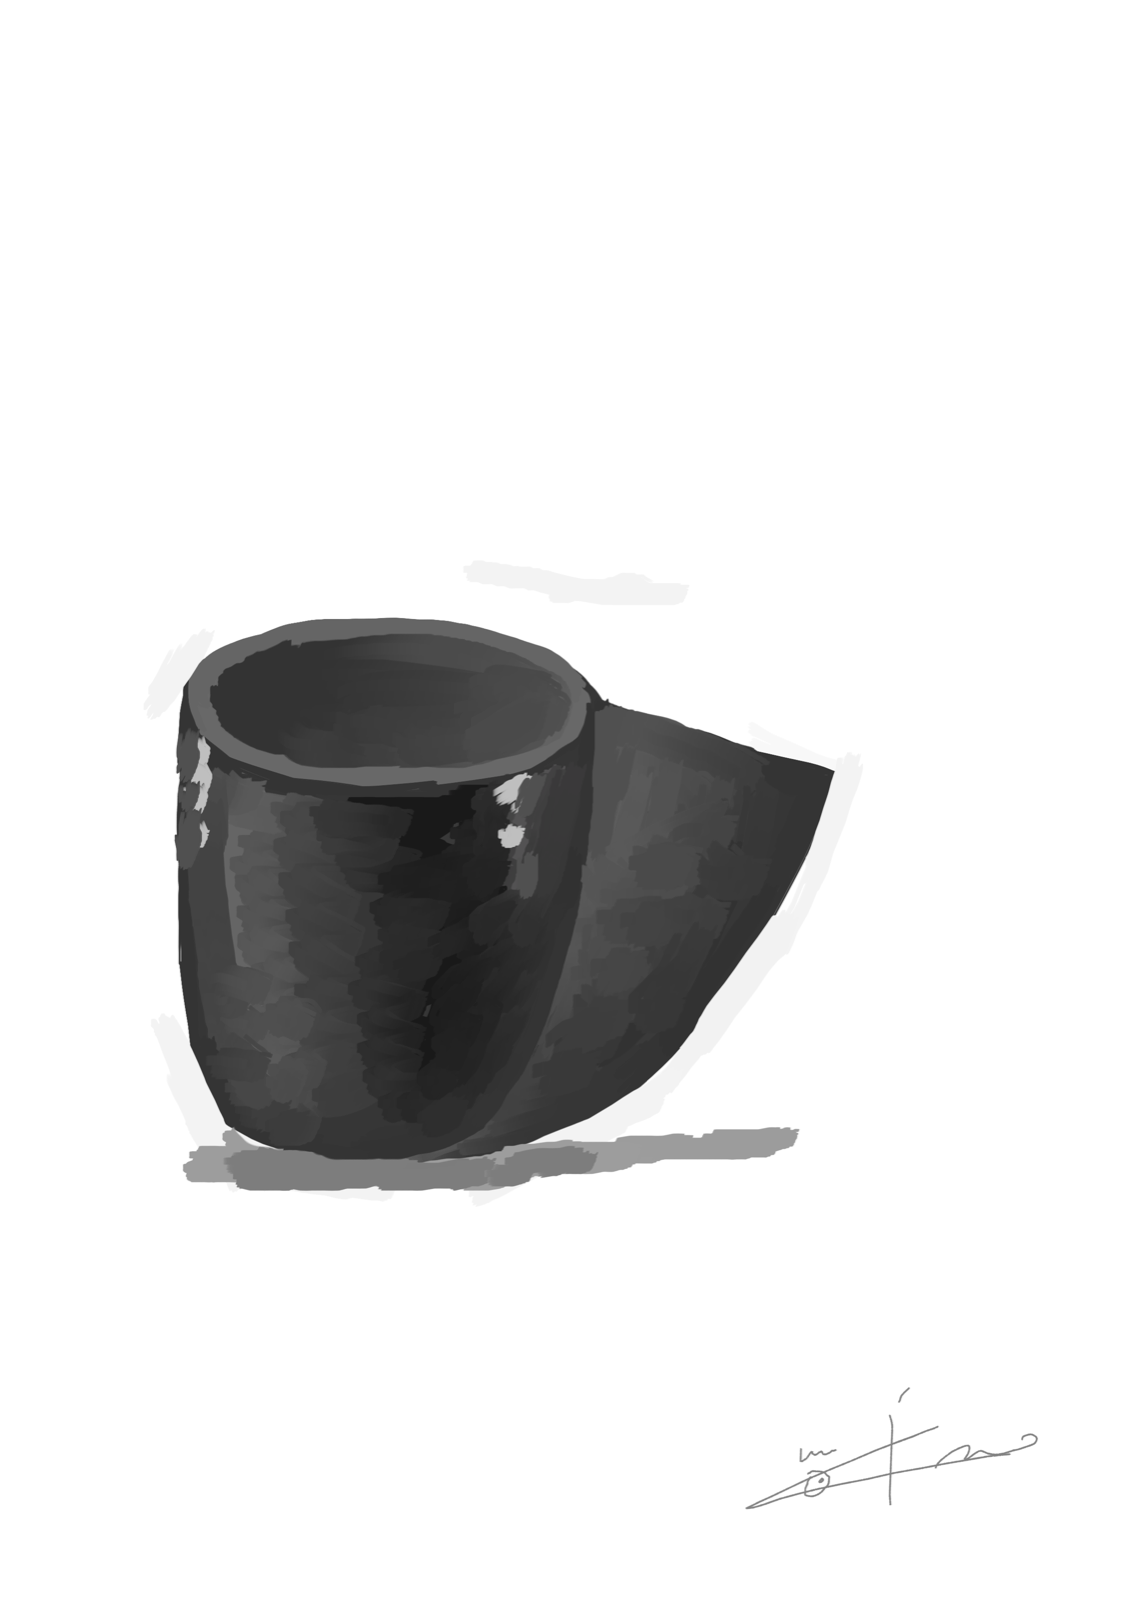
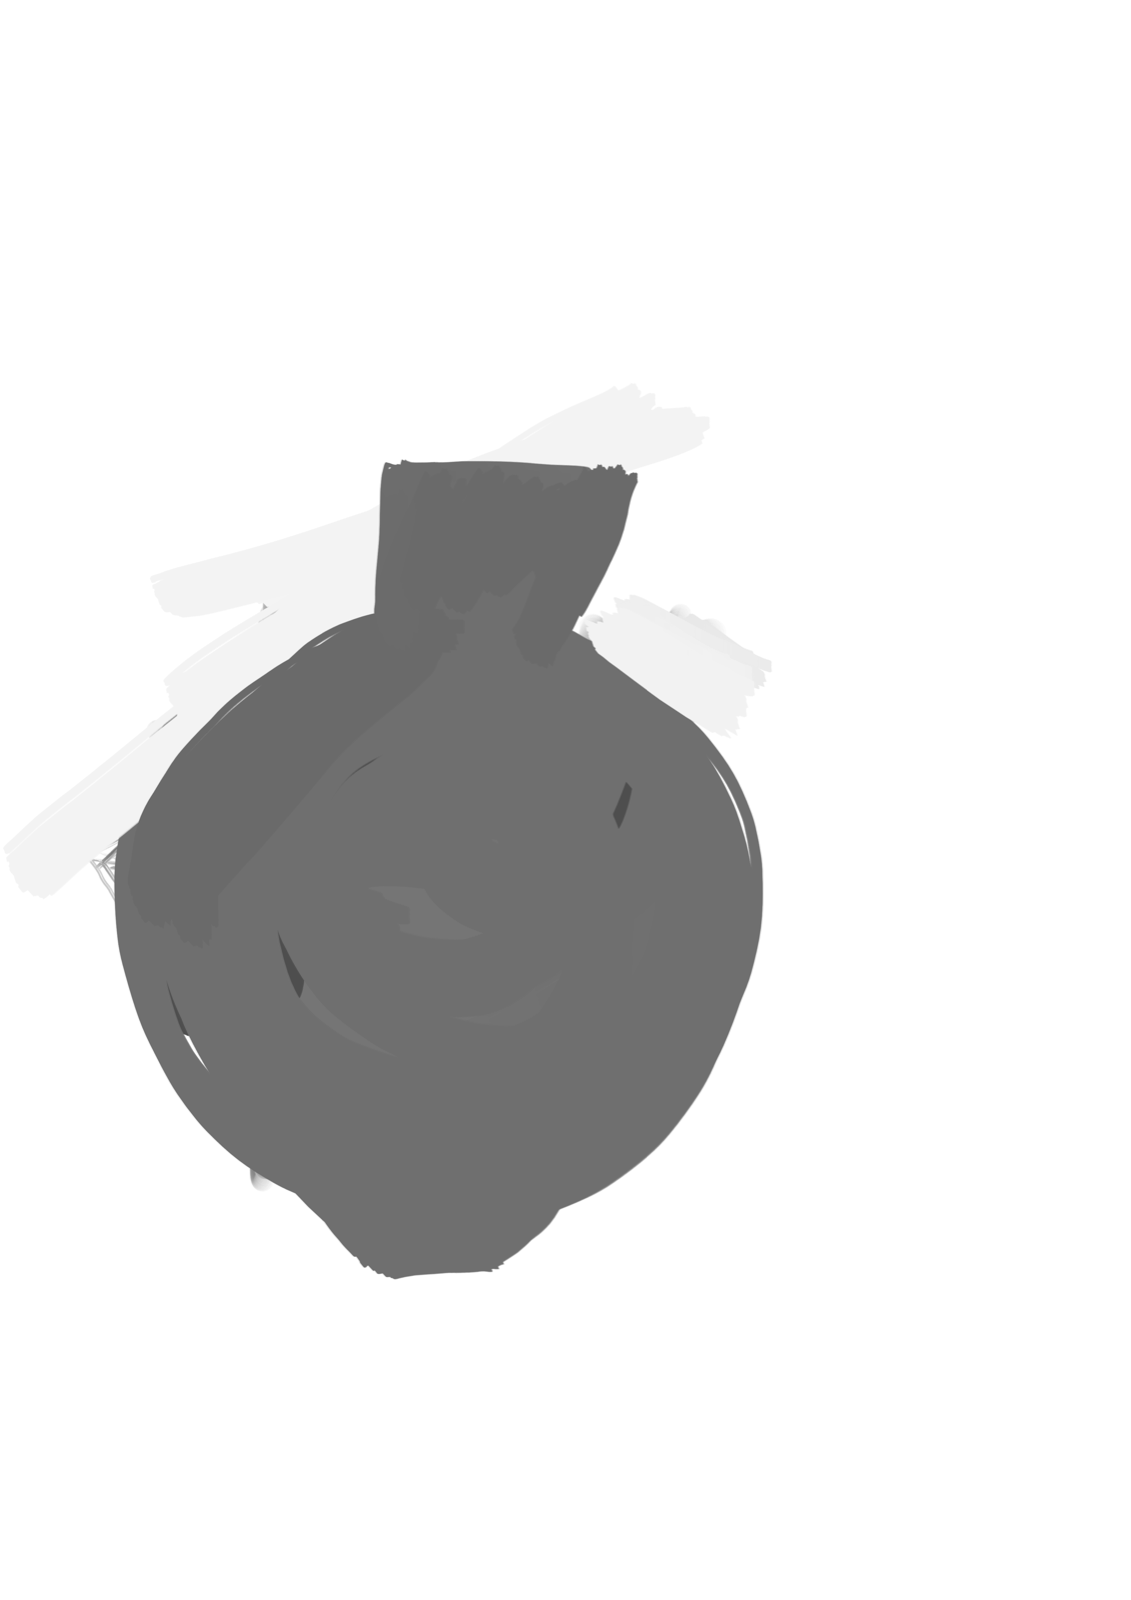
Restore work 08 after test file collision

Changed region(s): [[0.0928, 0.2812, 0.7427, 0.8125], [0.6808, 0.875, 0.8046, 0.9375], [0.8355, 0.9062, 0.8665, 0.9375]]

diff --git a/docs/index.html b/docs/index.html
@@ -11,7 +11,7 @@
 <meta property="og:title" content="동글사각 | CIRCLE SQUARE">
 <meta property="og:description" content="세라믹 도자기 컨셉 디자인 갤러리">
 <meta property="og:url" content="https://suokkim.github.io/ceramic/">
-<meta property="og:image" content="https://suokkim.github.io/ceramic/images/09.png">
+<meta property="og:image" content="https://suokkim.github.io/ceramic/images/08.png">
 <meta name="twitter:card" content="summary_large_image">
 <style>
   :root { color-scheme: light; }
